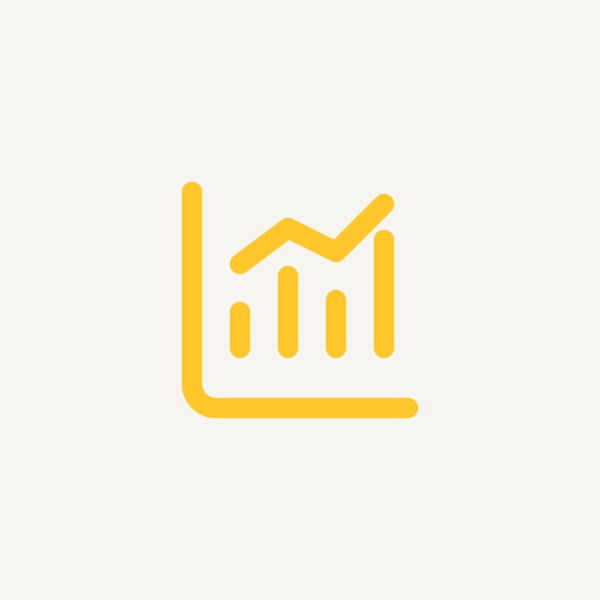
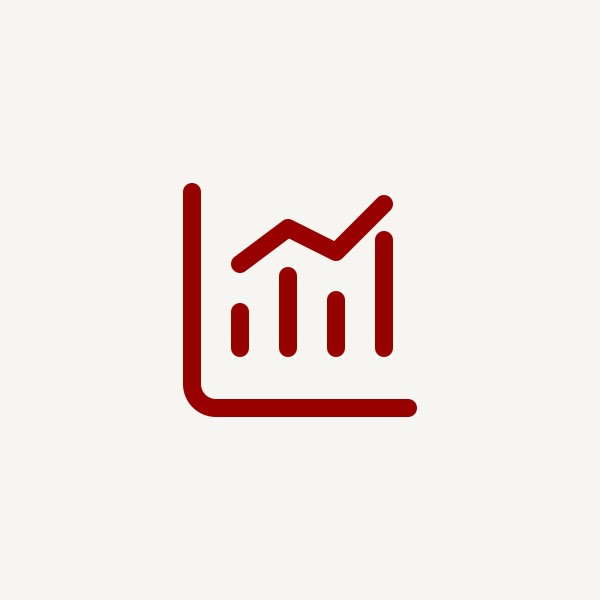
Cardinal lettering in light theme, DATASC.ORG top-left
Light theme now uses USC cardinal (#990000) for the wordmark, links,
times, roles, week labels and the drawn project icons. Dark theme keeps
gold. The top bar's DATASC.ORG label moves to the left.

Claude-Session: https://claude.ai/code/session_01VRUqKyy9BU7pbotwc4d7w7

Changed region(s): [[0.3, 0.3, 0.72, 0.72]]

diff --git a/app/globals.css b/app/globals.css
@@ -4,13 +4,13 @@
 /* USC cardinal and gold accents.
    Light is the default; .dark on <html> swaps the semantic colors. */
 :root {
-  /* Light theme mirrors the dark one: same structure and gold accents on white. */
+  /* Light theme mirrors the dark one's structure, with cardinal lettering on white. */
   --paper: #ffffff;
   --ink: #141312;
   --muted: #5c5a57;
   --line: #e7e5e0;
-  --accent: #ffc72c;    /* USC gold */
-  --wordmark: #ffc72c;  /* USC gold */
+  --accent: #990000;    /* USC cardinal: links, times, roles */
+  --wordmark: #990000;  /* USC cardinal */
   --band: #f6f5f2;      /* curriculum band + top bar: a shade off the page */
   --band-ink: #141312;
   --band-muted: #5c5a57;

diff --git a/components/Navbar.tsx b/components/Navbar.tsx
@@ -14,7 +14,7 @@ export default function Navbar() {
   return (
     <>
       <div className="border-b-2 border-gold bg-band text-xs tracking-[0.08em] text-band-muted">
-        <div className="mx-auto flex max-w-[1180px] justify-end px-7 py-2">
+        <div className="mx-auto flex max-w-[1180px] px-7 py-2">
           <span>DATASC.ORG</span>
         </div>
       </div>
